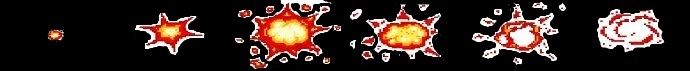
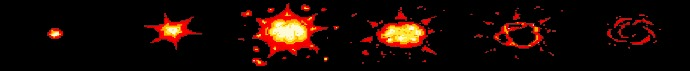
Update Sprite barreira

diff --git a/src2/barrier.c b/src2/barrier.c
@@ -18,7 +18,7 @@ void InitBarrier(void)
 
         bar[i].exp_bar.totalframes = 6;
         bar[i].exp_bar.currentframe = 0;
-        bar[i].exp_bar.framedelay = 15;
+        bar[i].exp_bar.framedelay = 10;
         bar[i].exp_bar.framecounter = 0;
         bar[i].exp_bar.start_exp = false;
     }
